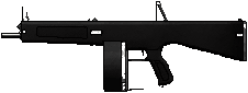
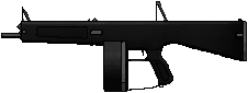
AA-12 no-drum (empty) sprite + mag-state swap
Master's fixed AA-12 loaded + no-drum sprites; enable the empty-mag swap
(aa12_nomag), size-matched to the loaded variant.

diff --git a/Game/UI/WeaponIcons.cs b/Game/UI/WeaponIcons.cs
@@ -32,7 +32,7 @@ public static class WeaponIcons
             "AKM" => empty ? "akm_nomag" : "akm",
             "AUG" => empty ? "aug_nomag" : "aug",
             "M249" => empty ? "m249_nomag" : "m249",
-            "AA12" => "aa12",   // no no-drum art yet
+            "AA12" => empty ? "aa12_nomag" : "aa12",
             "CP33" => empty ? "cp33_nomag" : "cp33",
             _ => null,
         };
